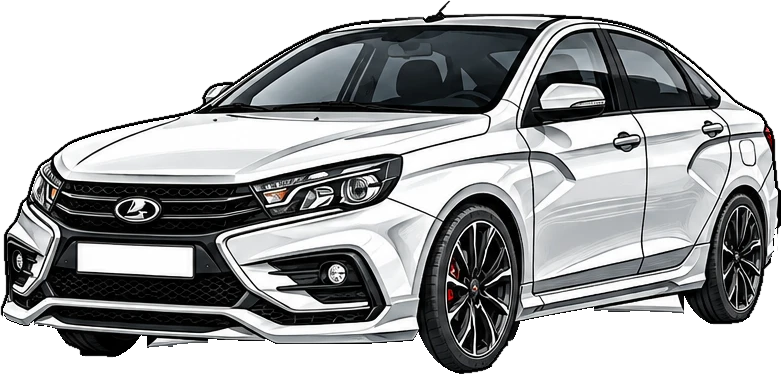
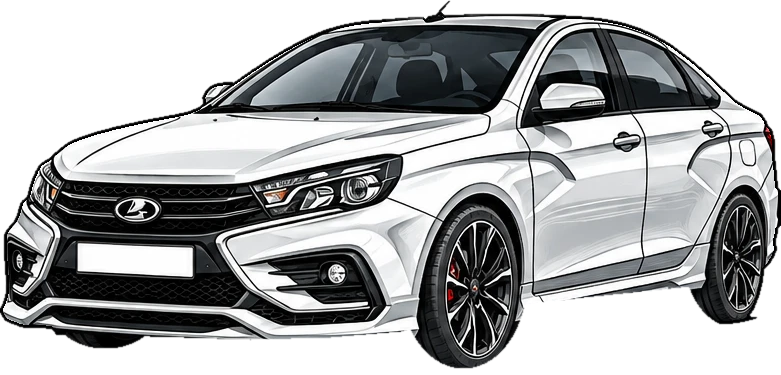
Веста 3/4 вырезана заново: без каймы, тени и белых клочков, переднее левое колесо целое; маски бликов для RX-7 и Весты
Claude-Session: https://claude.ai/code/session_011h7oDPmmegoivb4yRZ71Zj

diff --git a/reels/perekupy/kit/img/vesta/fix_under.py b/reels/perekupy/kit/img/vesta/fix_under.py
@@ -1,0 +1,16 @@
+# дочистка тени под кузовом CLS 3/4: ниже линии низа кузова оставляем только колёса (эллипсы шин)
+import sys, numpy as np
+from PIL import Image
+from scipy import ndimage
+f, wheels = sys.argv[1], eval(sys.argv[2]); line = eval(sys.argv[3])     # wheels: [(cx, cy, rx, ry)], line: [(x, y)] — низ кузова
+im = np.asarray(Image.open(f).convert("RGBA")).copy(); h, w = im.shape[:2]
+yy, xx = np.mgrid[:h, :w]
+yl = np.interp(xx, [p[0] for p in line], [p[1] for p in line])
+inw = np.zeros((h, w), bool)
+for cx, cy, rx, ry in wheels: inw |= ((xx - cx) / rx) ** 2 + ((yy - cy) / ry) ** 2 < 1
+kill = (yy > yl) & ~inw
+a = im[..., 3].astype(float); a[kill] = 0
+a = ndimage.gaussian_filter((a > 127).astype(float), .6) * 255
+im[..., 3] = a.clip(0, 255).astype(np.uint8)
+Image.fromarray(im).save(f.replace(".png", "_fix.png"))
+bg = Image.new("RGBA", (w, h), (255, 0, 255, 255)); bg.alpha_composite(Image.fromarray(im)); bg.convert("RGB").save("fixprev.jpg")
